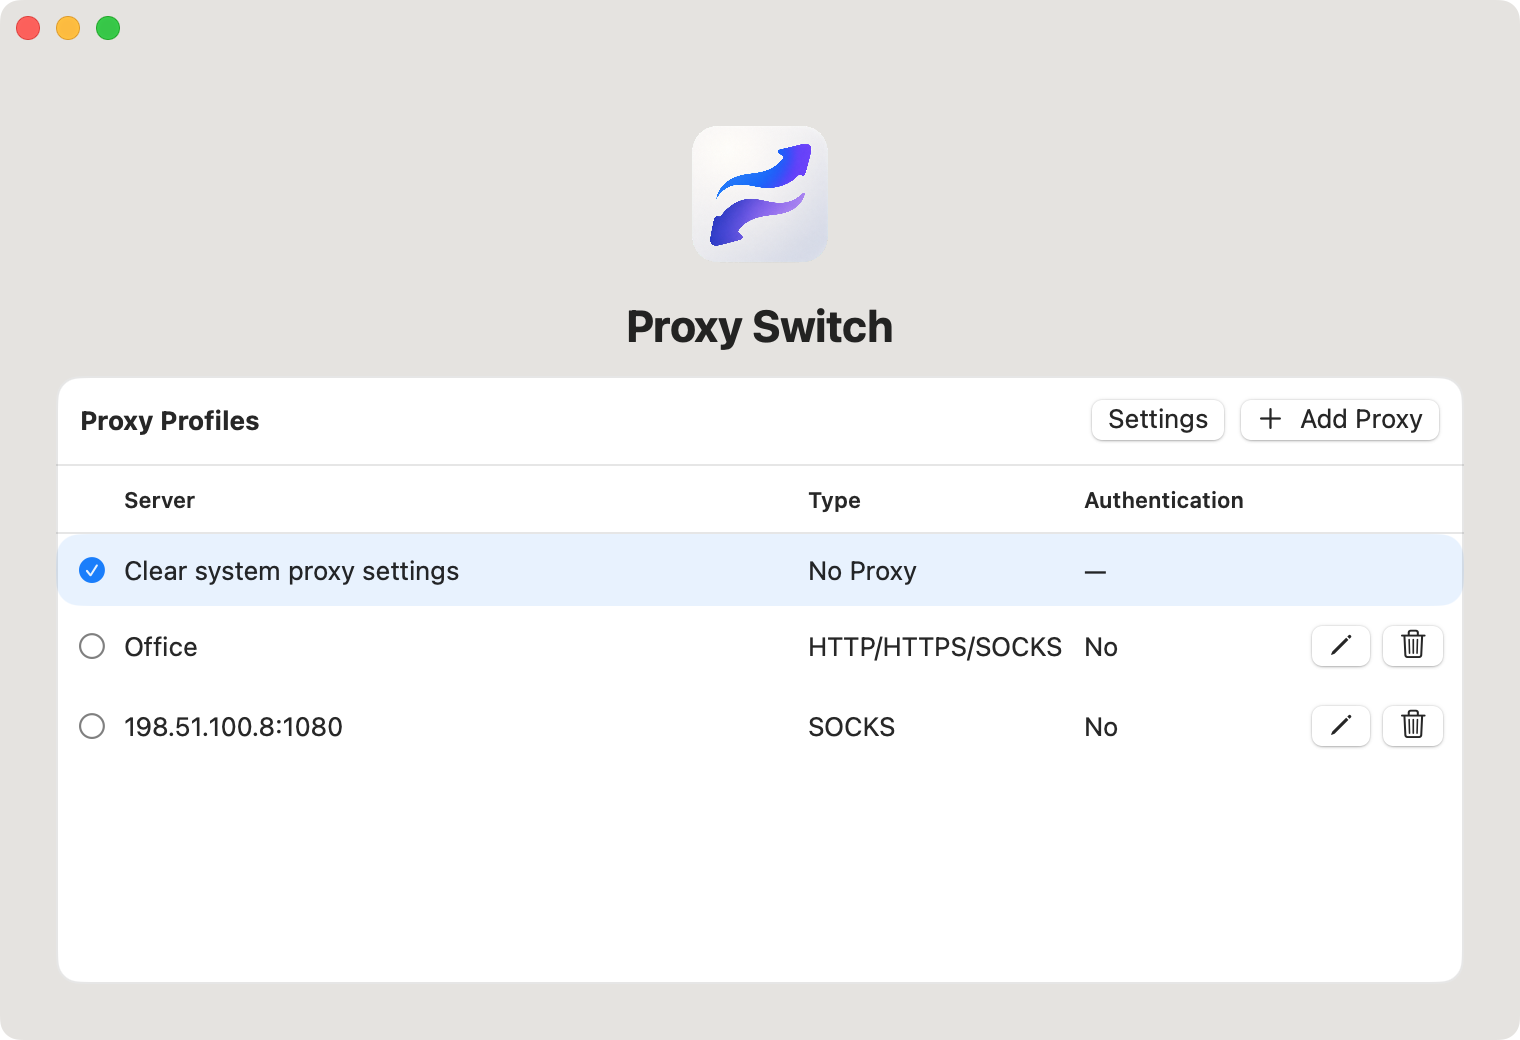
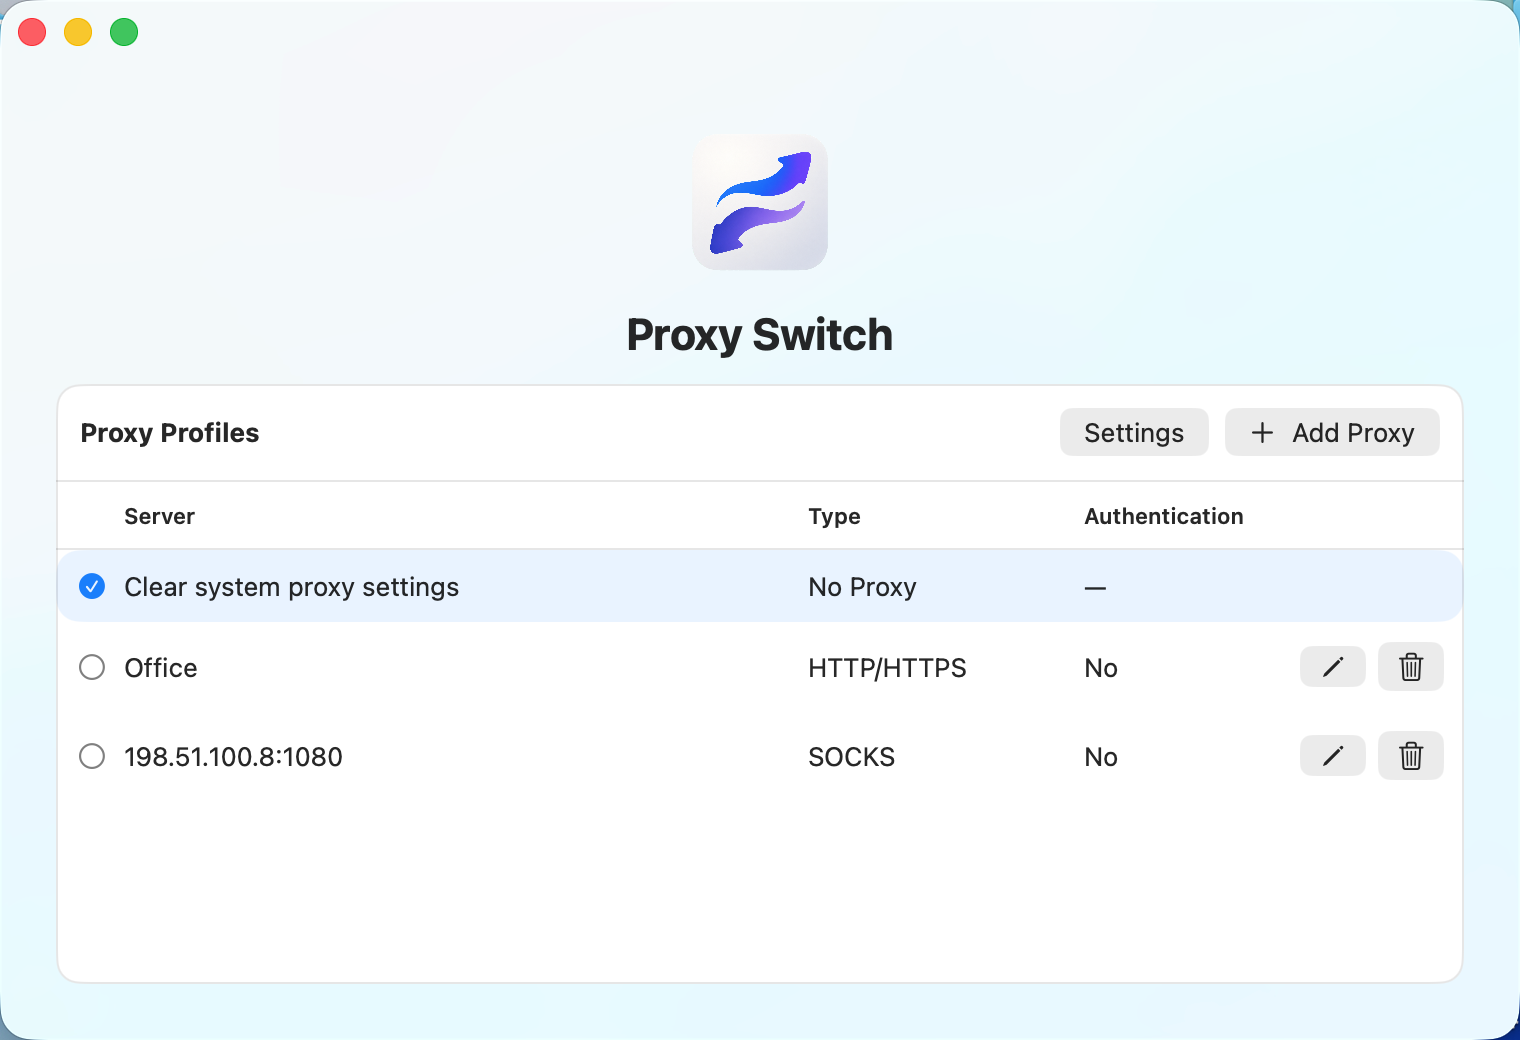
2.0.10

diff --git a/README.md b/README.md
@@ -8,7 +8,7 @@ Proxy Switch changes your Mac’s system proxy from the main window or menu bar.
 
 ![Proxy Switch for macOS, showing the proxy profile list](docs/screenshots/macos.png)
 
-*Captured on macOS 15 with example profiles.*
+*Captured on macOS 26.7.3 with example profiles and the desktop wallpaper visible through the window.*
 
 ## Features
 
